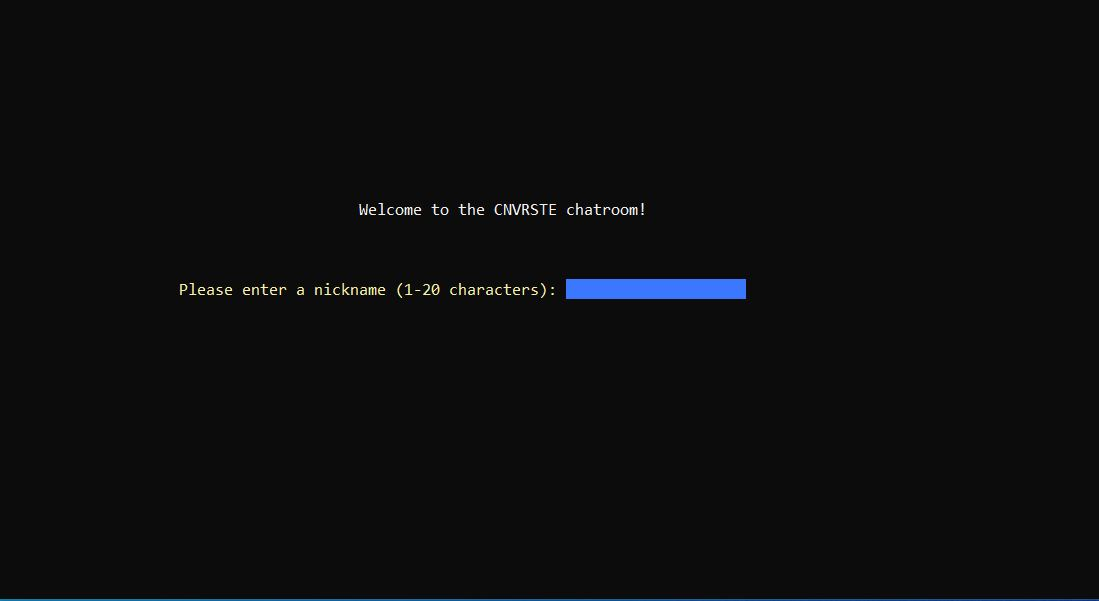
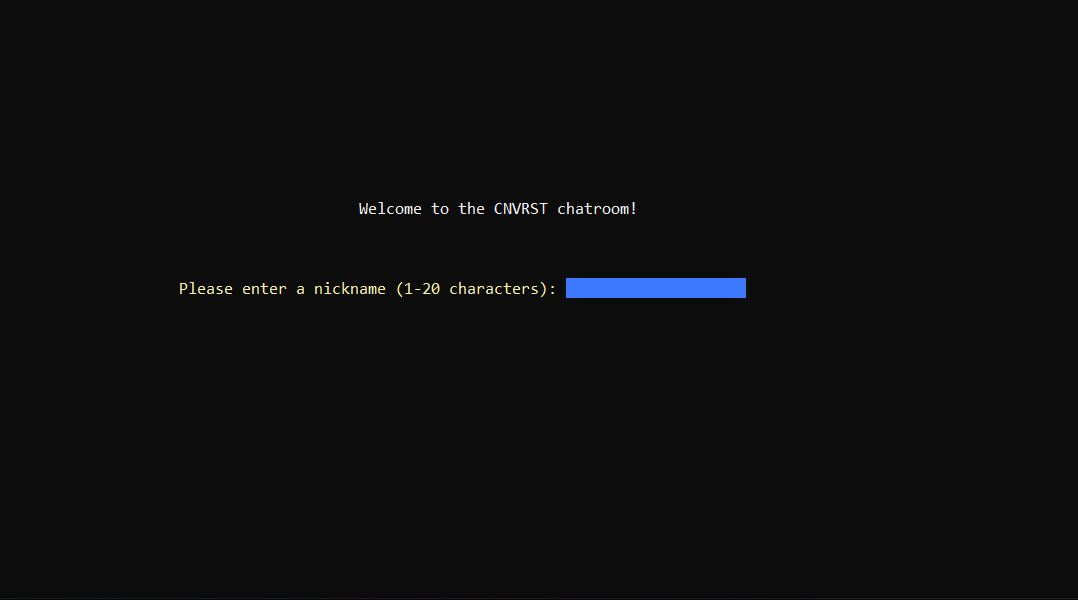
adds screenshot

Changed region(s): [[0.1531, 0.45, 0.7041, 0.51], [0.0, 0.99, 1.0, 1.0], [0.3061, 0.33, 0.6122, 0.36]]

diff --git a/client/main.go b/client/main.go
@@ -55,7 +55,7 @@ func receiveMessages(conn net.Conn, messages chan Message, textView *tview.TextV
 func getWelcomePageFlex(pages *tview.Pages, conn net.Conn) (*tview.Flex, *tview.InputField) {
 	welcomeHeadingFlex := tview.NewFlex().
 	AddItem(nil, 0, 1, false).
-	AddItem(tview.NewTextView().SetText("Welcome to the CNVRSTE chatroom!"), 0, 1, false).
+	AddItem(tview.NewTextView().SetText("Welcome to the CNVRST chatroom!"), 0, 1, false).
 	AddItem(nil, 0, 1, false)
 
 	nicknameInputField := tview.NewInputField().
